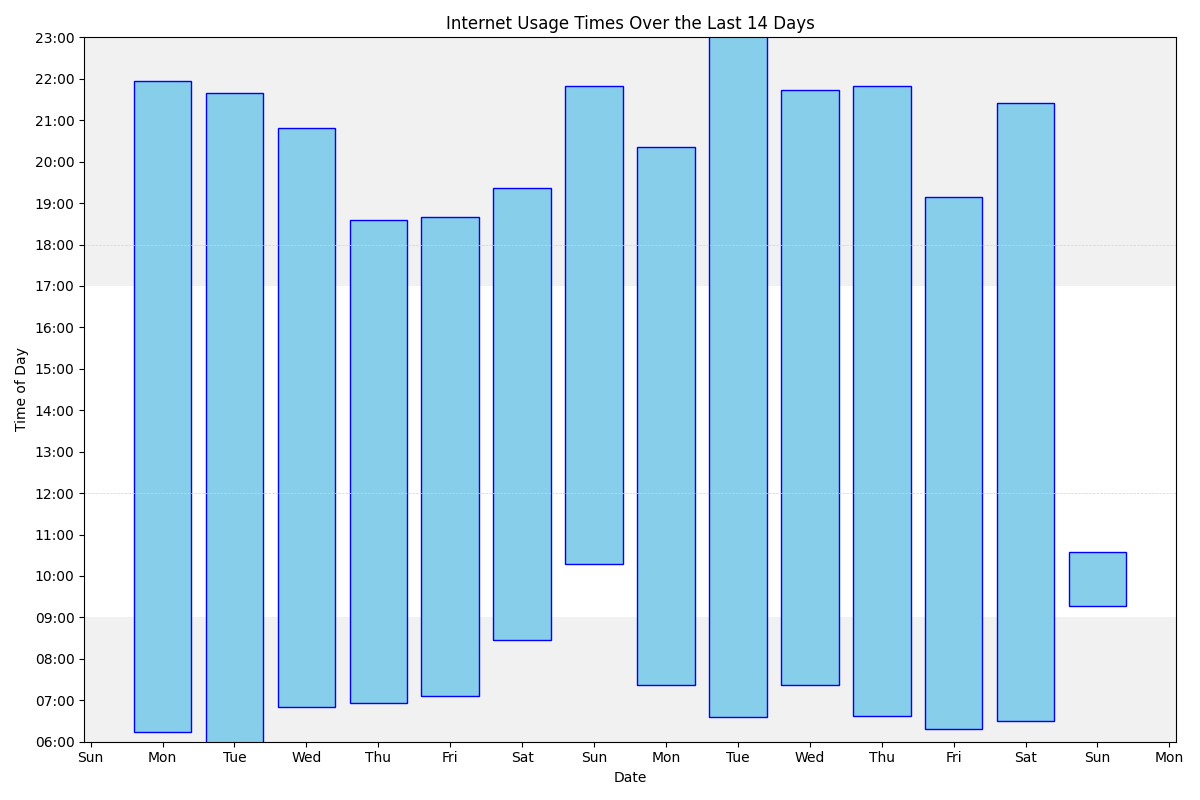
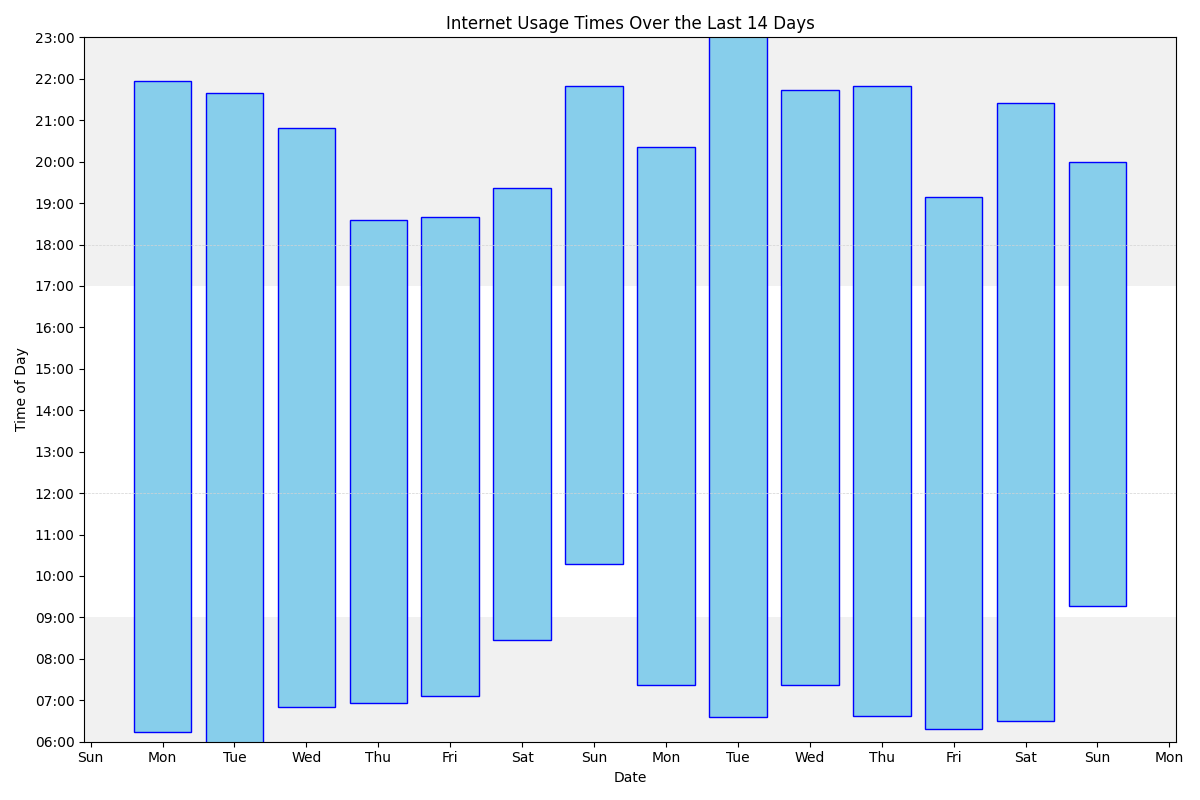
Update

Changed region(s): [[0.8633, 0.1875, 0.9558, 0.7188]]

diff --git a/index.md b/index.md
@@ -68,16 +68,16 @@ ul>li::after {
 <h3> Most common sites</h3>
 With number of accesses/minutes in parentheses
 
-<ol><li>www.google.com (3021)</li>
+<ol><li>www.google.com (3024)</li>
 <li>outlook.office.com (2583)</li>
 <li>mail.google.com (2559)</li>
 <li>docs.google.com (1951)</li>
 <li>outlook.office365.com (1537)</li>
 <li>bsky.app (1477)</li>
-<li>www.reddit.com (1409)</li>
+<li>www.reddit.com (1419)</li>
 <li>www.facebook.com (1396)</li>
 <li>duckduckgo.com (1032)</li>
-<li>www.theguardian.com (853)</li>
+<li>www.theguardian.com (855)</li>
 <li>chatgpt.com (734)</li>
 <li>www.amazon.co.uk (714)</li>
 <li>calendar.google.com (500)</li>
@@ -105,6 +105,20 @@ With number of accesses/minutes in parentheses
 <ul></ul>
 
 <H3>Sunday, 25/05/25</H3>
+
+<br>
+
+<ul><li> 19:59 www.reddit.com</li>
+<li class='same'> 19:58 www.reddit.com</li>
+<li class='same'> 19:56 www.reddit.com</li>
+<li class='same'> 19:55 www.reddit.com</li>
+<li class='same'> 19:54 www.reddit.com</li>
+<li class='same'> 19:53 www.reddit.com</li>
+<li class='same'> 19:52 www.reddit.com</li>
+<li> 19:45 www.theguardian.com</li>
+<li class='same'> 19:43 www.theguardian.com</li>
+<li> 19:43 www.google.com</li>
+</ul>
 
 <br>
 
@@ -337,6 +351,11 @@ With number of accesses/minutes in parentheses
 <li> 11:54 <a href="https://en.wikipedia.org/wiki/Rob_Schneider">Rob Schneider - Wikipedia</a></li>
 <li> 11:54 <a href="https://en.wikipedia.org/wiki/Elle_King">Elle King - Wikipedia</a></li>
 <li> 11:54 duckduckgo.com</li>
+<li> 11:51 www.google.com</li>
+<li> 11:51 www.reddit.com</li>
+<li class='same'> 11:50 www.reddit.com</li>
+<li> 11:50 www.google.com</li>
+<li> 11:50 www.reddit.com</li>
 <li> 11:50 equalitytime.github.io</li>
 <li> 11:47 mail.google.com</li>
 <li> 11:42 www.ncesc.com</li>
@@ -17522,8 +17541,7 @@ With number of accesses/minutes in parentheses
 <li> 16:01 <a href="https://en.wikipedia.org/wiki/Bicycle_trainer">Bicycle trainer - Wikipedia</a></li>
 <li> 16:01 duckduckgo.com</li>
 <li> 16:00 www.pedalpowergenerator.com</li>
-<li> 16:00 www.google.co.uk</li>
-<li class='same'> 15:59 www.google.co.uk</li>
+<li> 15:59 www.google.co.uk</li>
 <li> 15:59 duckduckgo.com</li>
 <li> 15:52 <a href="https://en.wikipedia.org/wiki/Barnfield_College">Barnfield College - Wikipedia</a></li>
 <li> 15:51 <a href="https://en.wikipedia.org/wiki/Robert_C._Martin">Robert C. Martin - Wikipedia</a></li>
@@ -17548,8 +17566,7 @@ With number of accesses/minutes in parentheses
 <br>
 
 <ul><li> 14:56 feedly.com</li>
-<li> 14:43 www.ebay.co.uk</li>
-<li class='same'> 14:42 www.ebay.co.uk</li>
+<li> 14:42 www.ebay.co.uk</li>
 <li> 14:38 www.theguardian.com</li>
 <li> 14:38 www.reddit.com</li>
 </ul>
